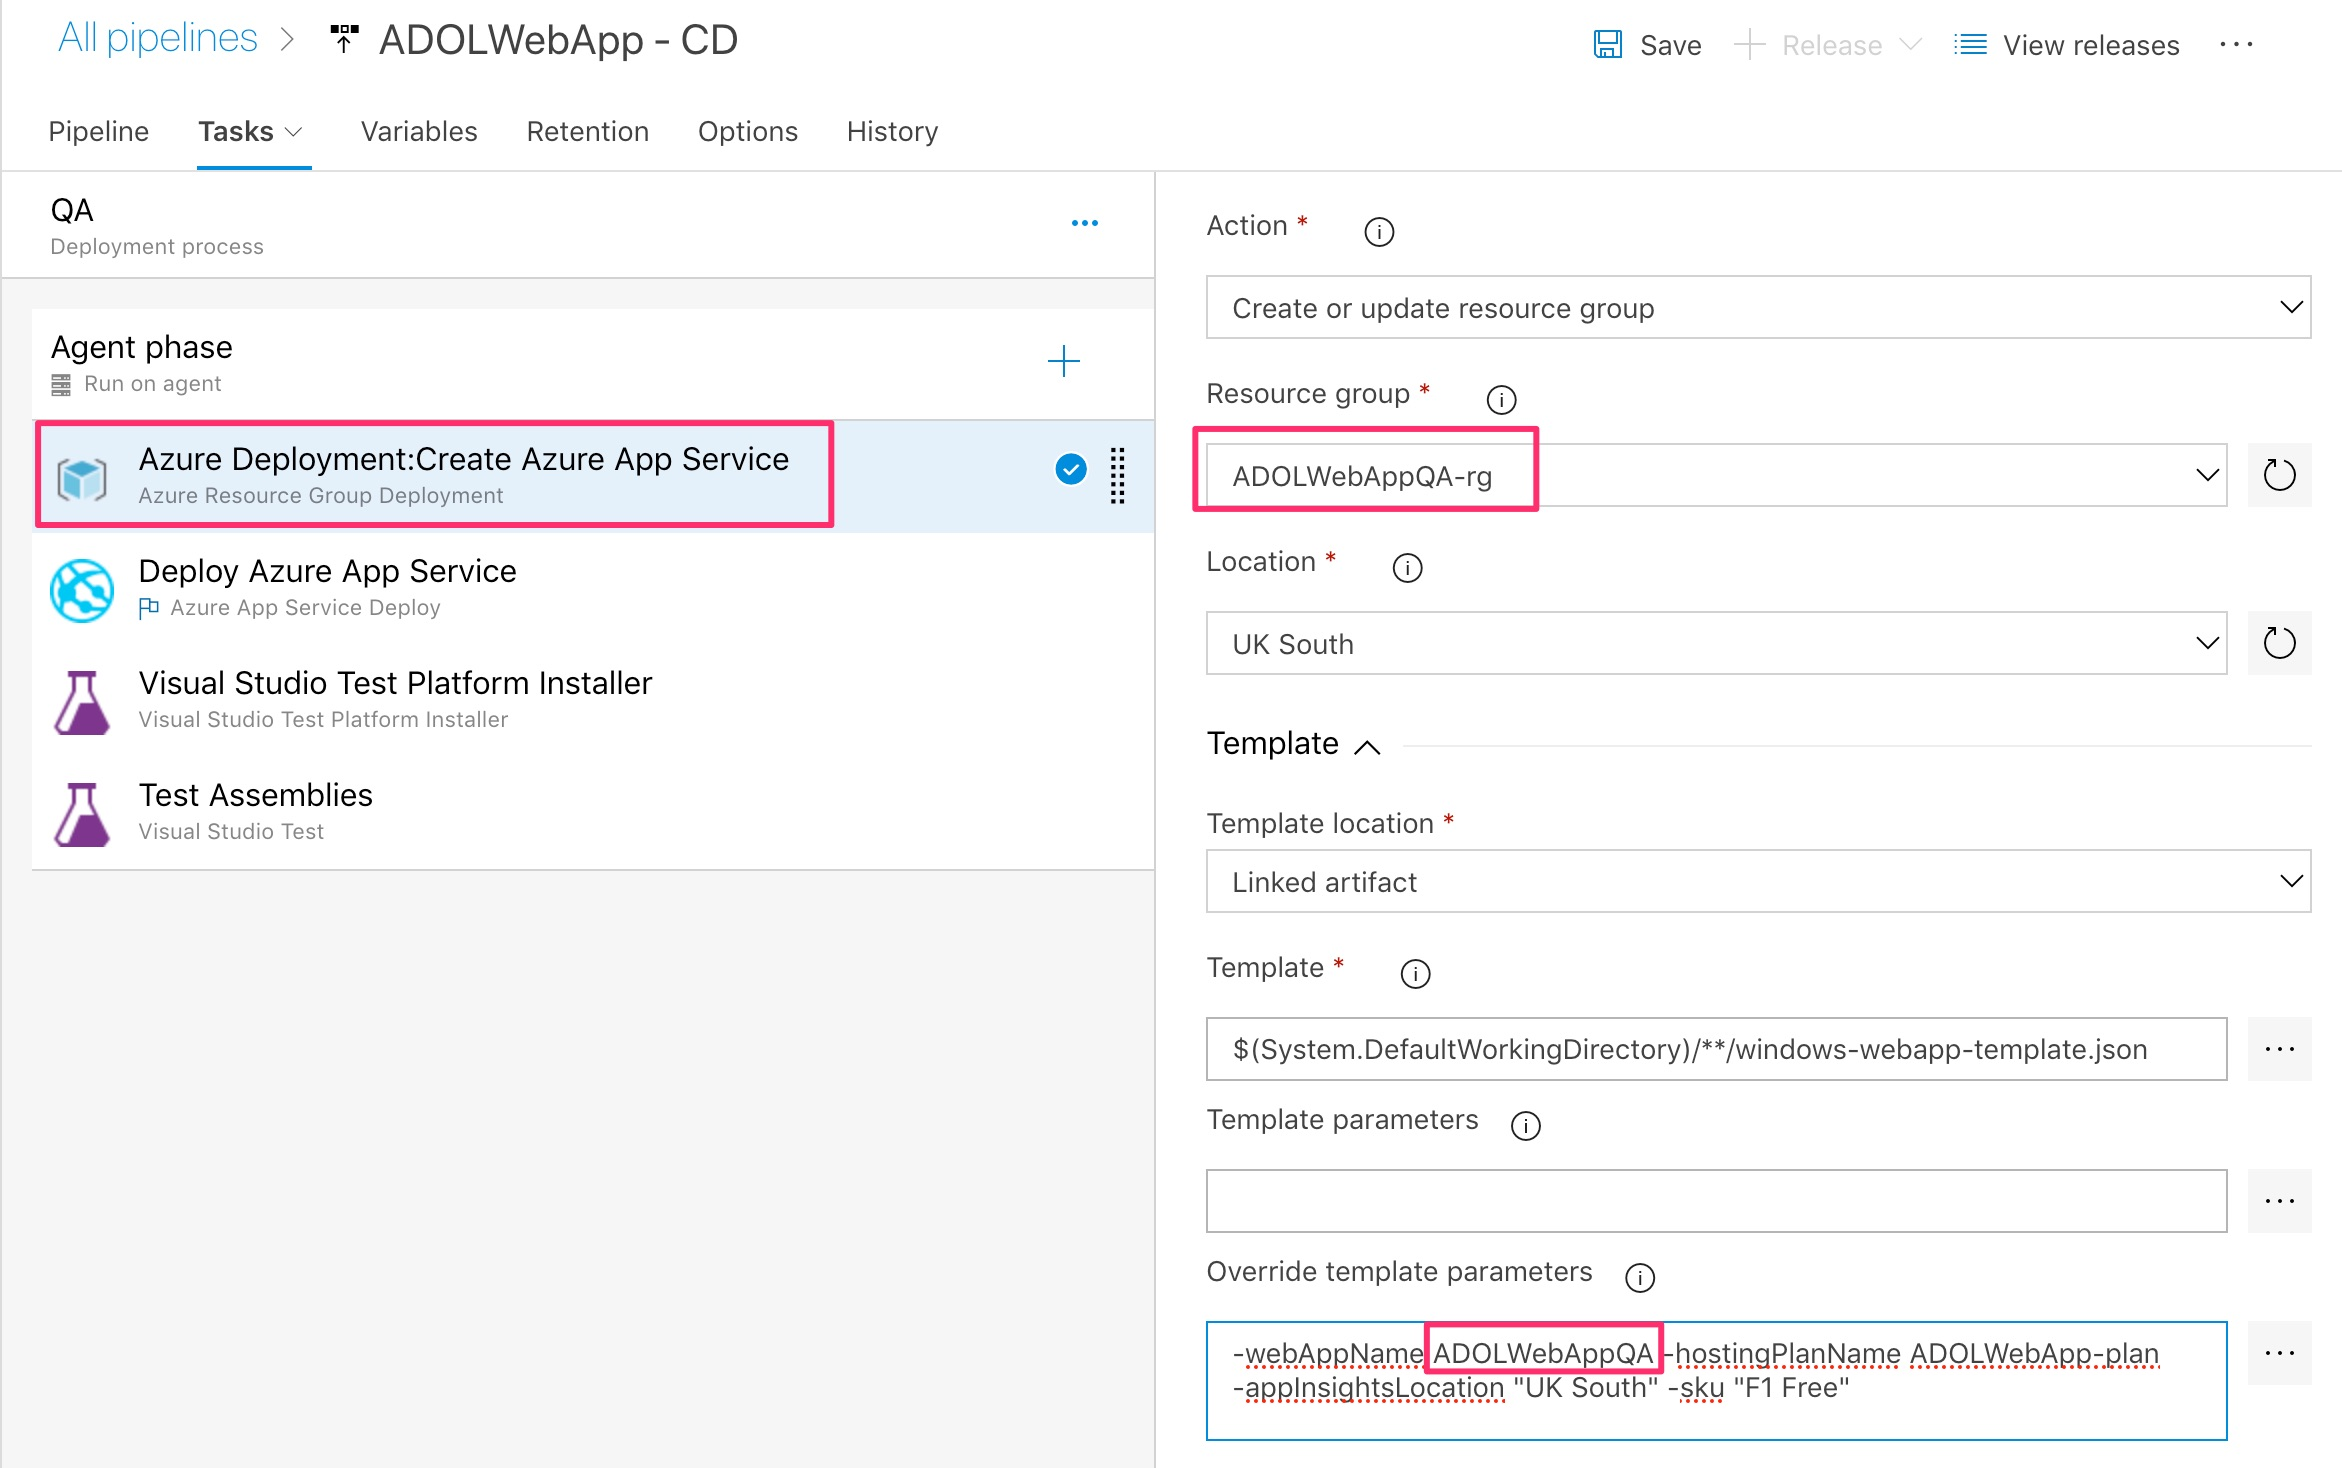
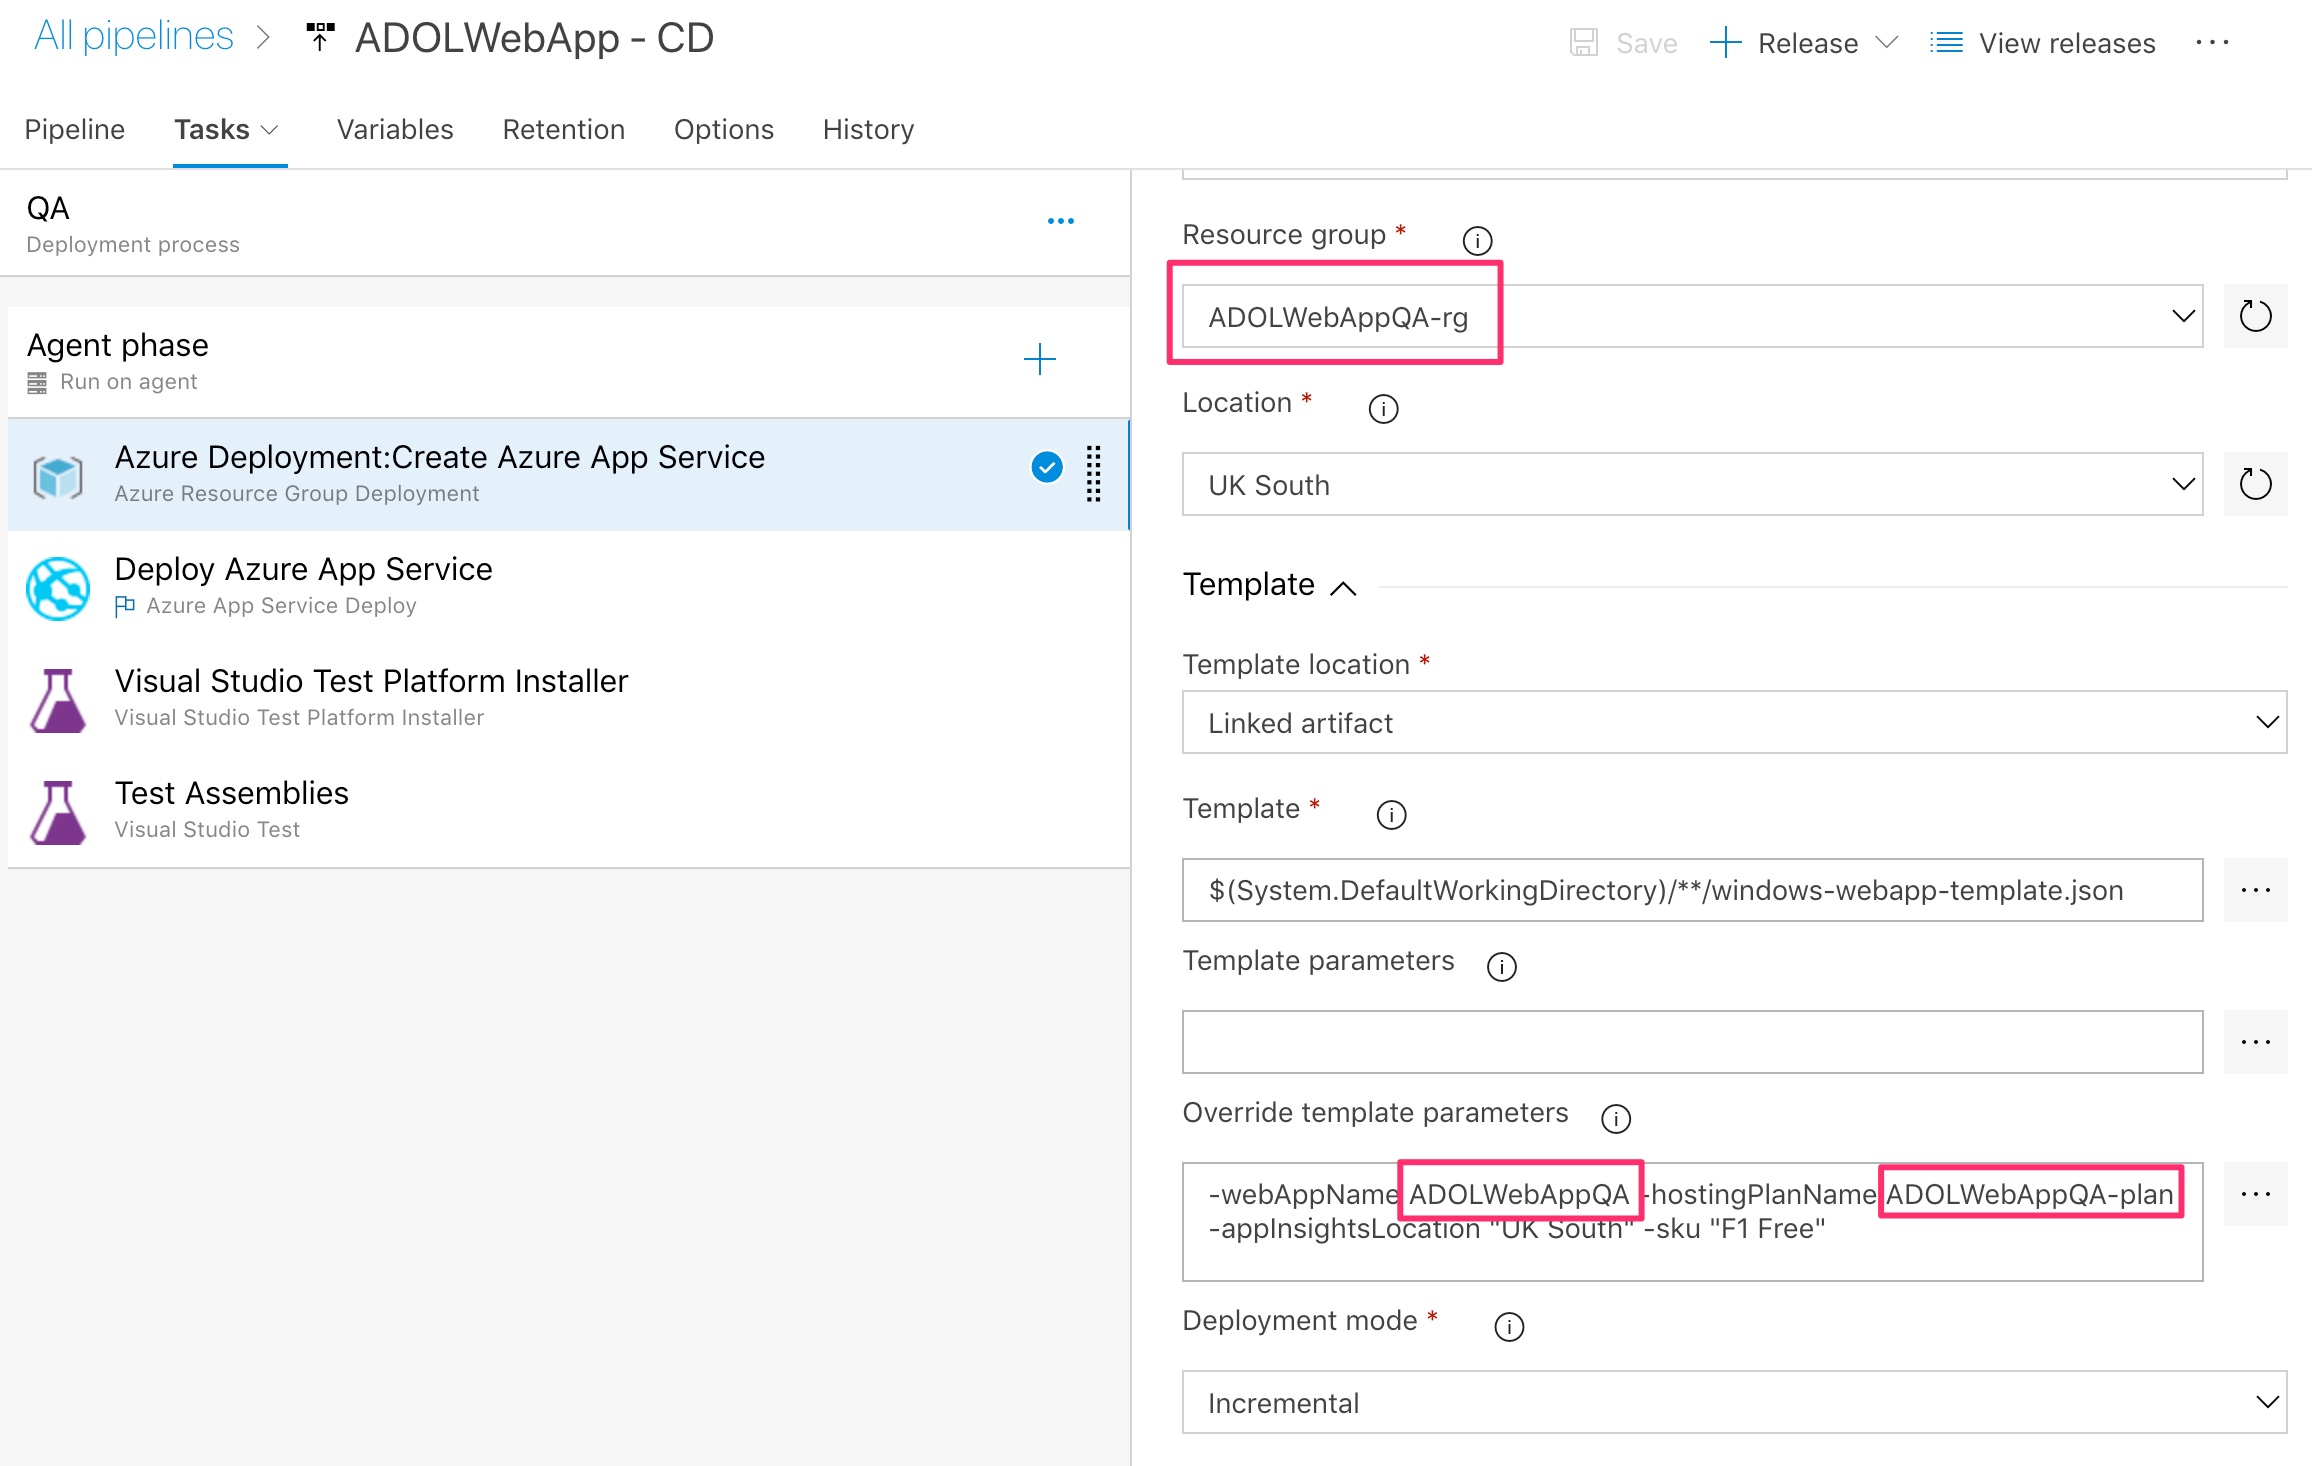
Lab 6

diff --git a/AzureDevOpsLab6.md b/AzureDevOpsLab6.md
@@ -20,7 +20,11 @@ Click on the 1 job, 4 tasks link in the newly created QA stage:
 
 <img src="images/Lab6_4.jpg" width="624"/>
 
-Edit the provisioning task to create a new QA resource group and a web app with a different name - append "QA" to both strings:
+Edit the provisioning task to and make three changes to create an entirely separate QA web application from the Dev web application:
+
+* Change the resource group name to a new one e.g. with QA in the name.
+* Change the name of the web app.
+* Change the name of the app service plan.
 
 <img src="images/Lab6_5.jpg" width="624"/>
 
@@ -32,7 +36,7 @@ Save the changes to the QA tasks:
 
 <img src="images/Lab6_7.jpg" width="624"/>
 
-# Step 2: Add a pre-deployment approval to the QA environment
+# Step 2: Add a pre-deployment approval to the QA stage
 
 Select the pipeline view:
 
@@ -72,13 +76,12 @@ Note that any one of the two approvers (a group and a person) can complete the a
 
 <img src="images/Lab6_15.jpg" width="624"/>
 
+The QA environment should then be succesfully created:
 
+<img src="images/Lab6_16.jpg" width="624"/>
 
+If you check in the Azure Portal you should now see the newly created Resource Group for the QA service plan and web application:
 
+<img src="images/Lab6_17.jpg" width="624"/>
 
-
-
-
-
-
-[<- Lab 5: Deploy changes via a Pull Request](https://github.com/gidavies/AzureDevOpsLab/blob/master/AzureDevOpsLab5.md) | [Lab 7: Improve the continuous integration ->](https://github.com/gidavies/AzureDevOpsLab/blob/master/AzureDevOpsLab7.md)
+[<- Lab 5: Deploy changes via a Pull Request](https://github.com/gidavies/AzureDevOpsLab/blob/master/AzureDevOpsLab5.md) | [Lab 7: Create a release dashboard ->](https://github.com/gidavies/AzureDevOpsLab/blob/master/AzureDevOpsLab7.md)

diff --git a/README.md b/README.md
@@ -16,8 +16,8 @@ This set of labs will step through the key elements in setting up and using a re
 - [Lab 4: Agile planning with Azure Boards](https://github.com/gidavies/AzureDevOpsLab/blob/master/AzureDevOpsLab4.md)
 - [Lab 5: Deploy changes via a Pull Request](https://github.com/gidavies/AzureDevOpsLab/blob/master/AzureDevOpsLab5.md)
 - [Lab 6: Extend the release pipeline](https://github.com/gidavies/AzureDevOpsLab/blob/master/AzureDevOpsLab6.md)
-- [Lab 7: Extend the continuous deployment](https://github.com/gidavies/AzureDevOpsLab/blob/master/AzureDevOpsLab7.md)
-- [Lab 8: Automated Testing with Selenium](https://github.com/gidavies/AzureDevOpsLab/blob/master/AzureDevOpsLab8.md)
+- [Lab 7: Create a release dashboard](https://github.com/gidavies/AzureDevOpsLab/blob/master/AzureDevOpsLab7.md)
+- [Lab 8: Add additional Selenium tests](https://github.com/gidavies/AzureDevOpsLab/blob/master/AzureDevOpsLab8.md)
 - [Lab 9: Monitoring with Application Insights](https://github.com/gidavies/AzureDevOpsLab/blob/master/AzureDevOpsLab9.md)
 
 Azure DevOps supports any app and doesn't require the use of Visual Studio, .NET or other Microsoft languages or platforms. [Labs that work through implementing DevOps with Node, Java, Eclipse, IntelliJ, Docker and more are available here](https://www.azuredevopslabs.com/).
